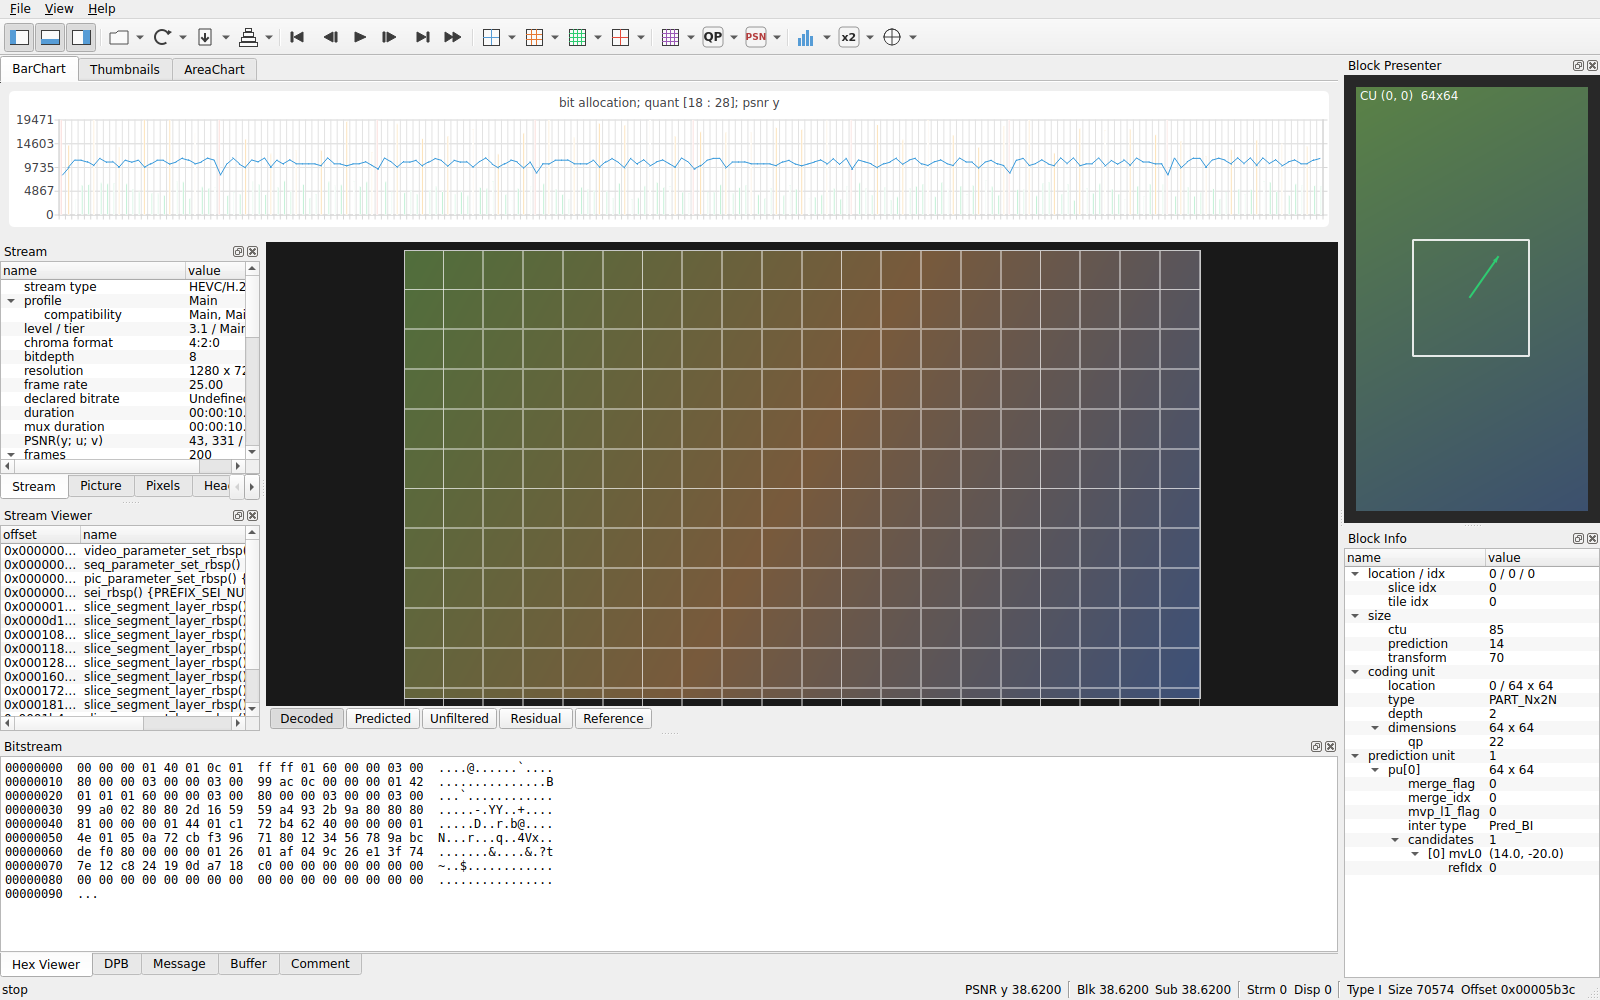
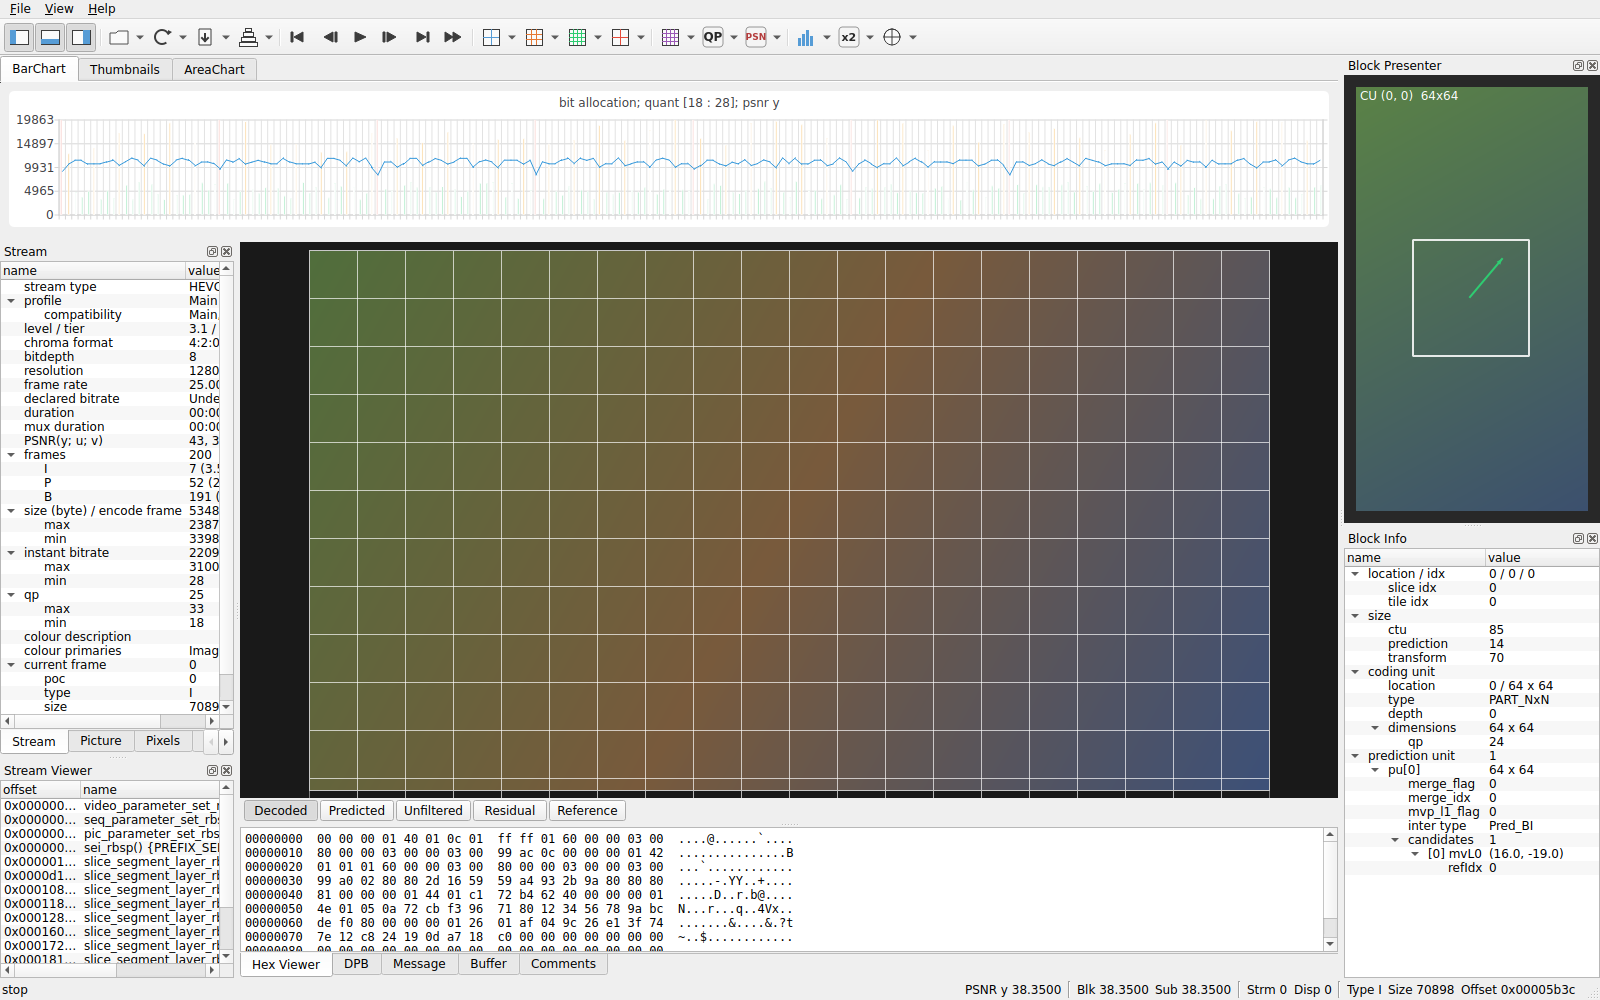
Move Bitstream tabs into central widget; expand Stream dock
- Move the Hex Viewer / DPB / Message / Buffer / Comments tab widget
  from the bottom dock area into the central widget, sitting in a
  vertical splitter directly below the video preview.
- Replace setupBottomDocks() body with an empty stub and add a new
  createBitstreamTabs(QWidget*) helper that constructs the tab widget
  for the central layout.
- Reset BottomLeft / BottomRight corners back to LeftDockWidgetArea /
  RightDockWidgetArea so the Stream + Stream Viewer (left) and the
  Block Presenter + Block Info (right) docks now extend from the top
  of the window all the way down to the bottom.
- Use resizeDocks({streamDock, streamViewerDock}, {520, 220}, Vertical)
  so the Stream tab tree gets the lion's share of the left column and
  Stream Viewer stays as a smaller bottom strip.
- Rename the last bitstream tab from "Comment" to "Comments" to match
  the StreamEye reference.

https://claude.ai/code/session_01Fk599Kxe4RL25fwFBHgwYp

diff --git a/src/MainWindow.cpp b/src/MainWindow.cpp
@@ -58,21 +58,40 @@ void MainWindow::setupDataModel() {
 }
 
 void MainWindow::setupCentralLayout() {
-    // Central column now holds just the video preview with the view-mode
-    // selector (Decoded / Predicted / Unfiltered / Residual / Reference)
-    // underneath it. The chart tabs sit in the top dock, and bitstream /
-    // coding-unit info live in the side and bottom docks.
+    // Central column = vertical splitter containing:
+    //   Top    : Video preview + Decoded/Predicted/… view-mode selector
+    //   Bottom : Hex Viewer / DPB / Message / Buffer / Comments tab widget
+    //
+    // The bitstream tabs used to live in a Bottom dock; they have been
+    // moved into the central widget so they sit between the video preview
+    // and the bottom of the window — and so the left (Stream / Stream
+    // Viewer) and right (Block Presenter / Block Info) docks can extend
+    // from the top of the window all the way down to the bottom.
     auto* central = new QWidget(this);
     auto* layout  = new QVBoxLayout(central);
     layout->setContentsMargins(0, 0, 0, 0);
     layout->setSpacing(0);
 
-    m_videoPreview     = new VideoPreviewWidget(&m_data, central);
-    m_viewModeSelector = new ViewModeSelector(central);
+    auto* vSplit = new QSplitter(Qt::Vertical, central);
 
-    layout->addWidget(m_videoPreview, 1);
-    layout->addWidget(m_viewModeSelector);
+    auto* videoArea = new QWidget(vSplit);
+    auto* videoL    = new QVBoxLayout(videoArea);
+    videoL->setContentsMargins(0, 0, 0, 0);
+    videoL->setSpacing(0);
+    m_videoPreview     = new VideoPreviewWidget(&m_data, videoArea);
+    m_viewModeSelector = new ViewModeSelector(videoArea);
+    videoL->addWidget(m_videoPreview, 1);
+    videoL->addWidget(m_viewModeSelector);
 
+    auto* bitstreamTabs = createBitstreamTabs(vSplit);
+    bitstreamTabs->setMinimumHeight(140);
+
+    vSplit->addWidget(videoArea);
+    vSplit->addWidget(bitstreamTabs);
+    vSplit->setStretchFactor(0, 3);
+    vSplit->setStretchFactor(1, 1);
+
+    layout->addWidget(vSplit);
     setCentralWidget(central);
 }
 
@@ -80,14 +99,15 @@ void MainWindow::setupDocks() {
     // Configure corners so:
     //   - Top dock (charts) spans from the left edge over the Stream dock,
     //     but stops at the right dock (Block Presenter / Block Info).
-    //   - Right dock (Block Presenter / Block Info) extends from the top
-    //     of the window all the way down to the bottom — Block Info fills
-    //     the full vertical right column.
-    //   - Bottom dock (Bitstream tabs) spans only between the left column
-    //     and the right column.
+    //   - Left dock column (Stream / Stream Viewer) extends from the top
+    //     of the window all the way down to the bottom.
+    //   - Right dock column (Block Presenter / Block Info) extends from
+    //     the top of the window all the way down to the bottom.
+    //   - There is no Bottom dock area — the Hex Viewer / DPB / Message /
+    //     Buffer / Comments tabs live in the central widget instead.
     setCorner(Qt::TopLeftCorner,     Qt::TopDockWidgetArea);
     setCorner(Qt::TopRightCorner,    Qt::RightDockWidgetArea);
-    setCorner(Qt::BottomLeftCorner,  Qt::BottomDockWidgetArea);
+    setCorner(Qt::BottomLeftCorner,  Qt::LeftDockWidgetArea);
     setCorner(Qt::BottomRightCorner, Qt::RightDockWidgetArea);
 
     // --- Top dock: Chart tabs (BarChart / Thumbnails / AreaChart) -----------
@@ -196,6 +216,9 @@ void MainWindow::setupDocks() {
 
     // Stack Stream (top) over Stream Viewer (bottom) on the left.
     splitDockWidget(streamDock, streamViewerDock, Qt::Vertical);
+    // Give Stream the lion's share of the left column (Stream Viewer
+    // gets the smaller bottom portion).
+    resizeDocks({streamDock, streamViewerDock}, {520, 220}, Qt::Vertical);
 
     // --- Right (top) dock: Block Presenter (motion-vector viewer) ---
     auto* mvDock = new QDockWidget(tr("Block Presenter"), this);
@@ -234,10 +257,13 @@ static QPlainTextEdit* makeMonoEdit(const QString& initial, QWidget* parent) {
 }
 
 void MainWindow::setupBottomDocks() {
-    // --- Bottom dock: Hex Viewer / DPB / Message / Buffer / Comment --------
-    auto* bitstreamDock = new QDockWidget(tr("Bitstream"), this);
-    bitstreamDock->setObjectName(QStringLiteral("BitstreamDock"));
-    auto* tabs = new QTabWidget(bitstreamDock);
+    // No bottom docks — the Hex Viewer / DPB / Message / Buffer / Comment
+    // tab widget now lives inside the central widget, between the video
+    // preview and the bottom of the window.
+}
+
+QTabWidget* MainWindow::createBitstreamTabs(QWidget* parent) {
+    auto* tabs = new QTabWidget(parent);
     tabs->setDocumentMode(true);
     tabs->setTabPosition(QTabWidget::South);
 
@@ -313,15 +339,13 @@ void MainWindow::setupBottomDocks() {
         "hrd_conformance    : ok\n");
     tabs->addTab(makeMonoEdit(buf, tabs), tr("Buffer"));
 
-    // Comment tab ----------------------------------------------------------
+    // Comments tab ---------------------------------------------------------
     auto* commentEdit = makeMonoEdit(QString{}, tabs);
     commentEdit->setReadOnly(false);
     commentEdit->setPlaceholderText(tr("Type a comment for this bitstream…"));
-    tabs->addTab(commentEdit, tr("Comment"));
+    tabs->addTab(commentEdit, tr("Comments"));
 
-    bitstreamDock->setWidget(tabs);
-    bitstreamDock->setMinimumHeight(140);
-    addDockWidget(Qt::BottomDockWidgetArea, bitstreamDock);
+    return tabs;
 }
 
 void MainWindow::setupToolbarAndMenu() {

diff --git a/src/MainWindow.h b/src/MainWindow.h
@@ -5,6 +5,9 @@
 #include <QLabel>
 #include <QMainWindow>
 
+class QTabWidget;
+class QWidget;
+
 namespace vsa {
 
 class StreamInfoTree;
@@ -41,6 +44,7 @@ private:
     void setupCentralLayout();
     void setupDocks();
     void setupBottomDocks();
+    QTabWidget* createBitstreamTabs(QWidget* parent);
     void setupToolbarAndMenu();
     void setupStatusBar();
     void wireSignals();
